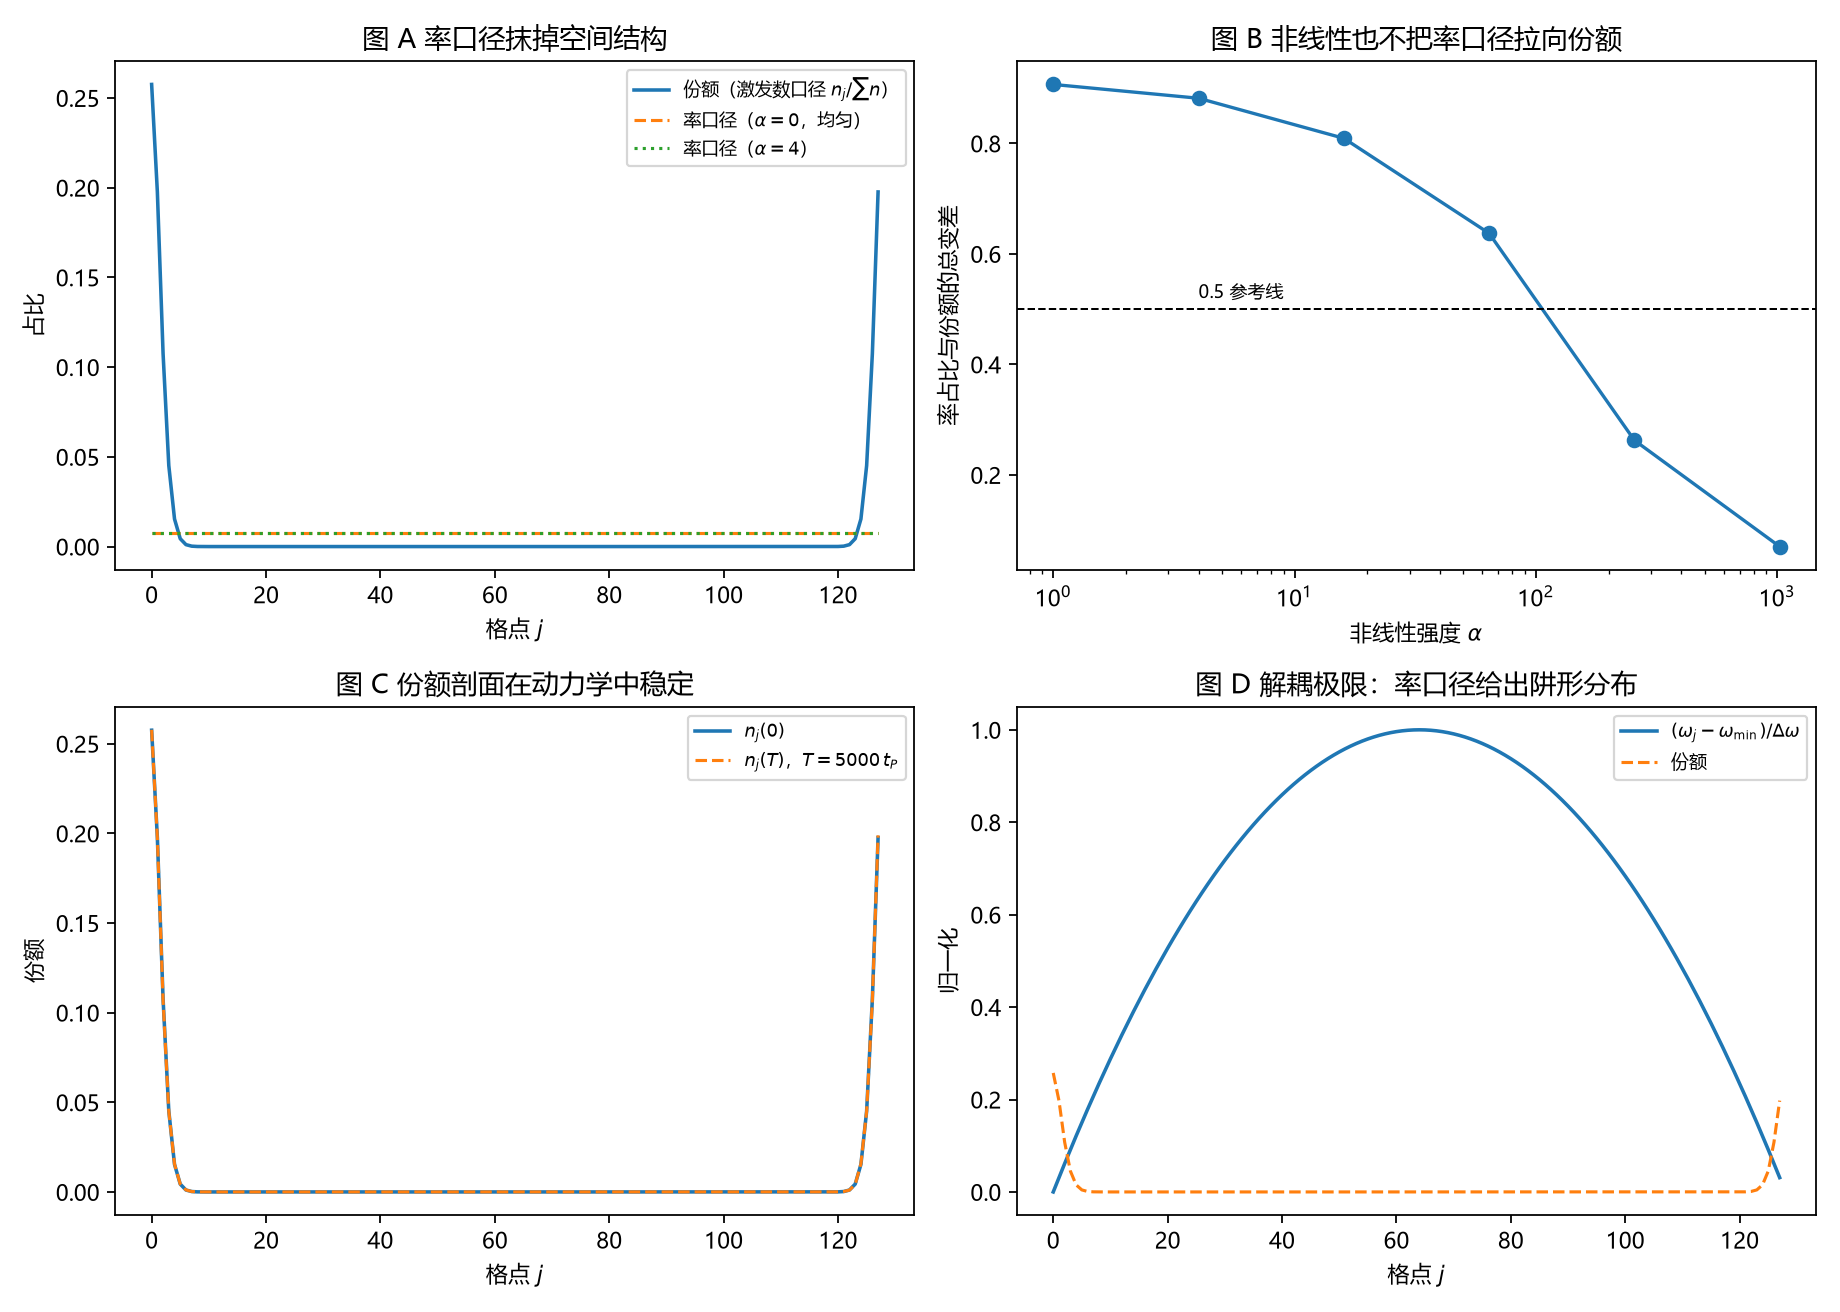
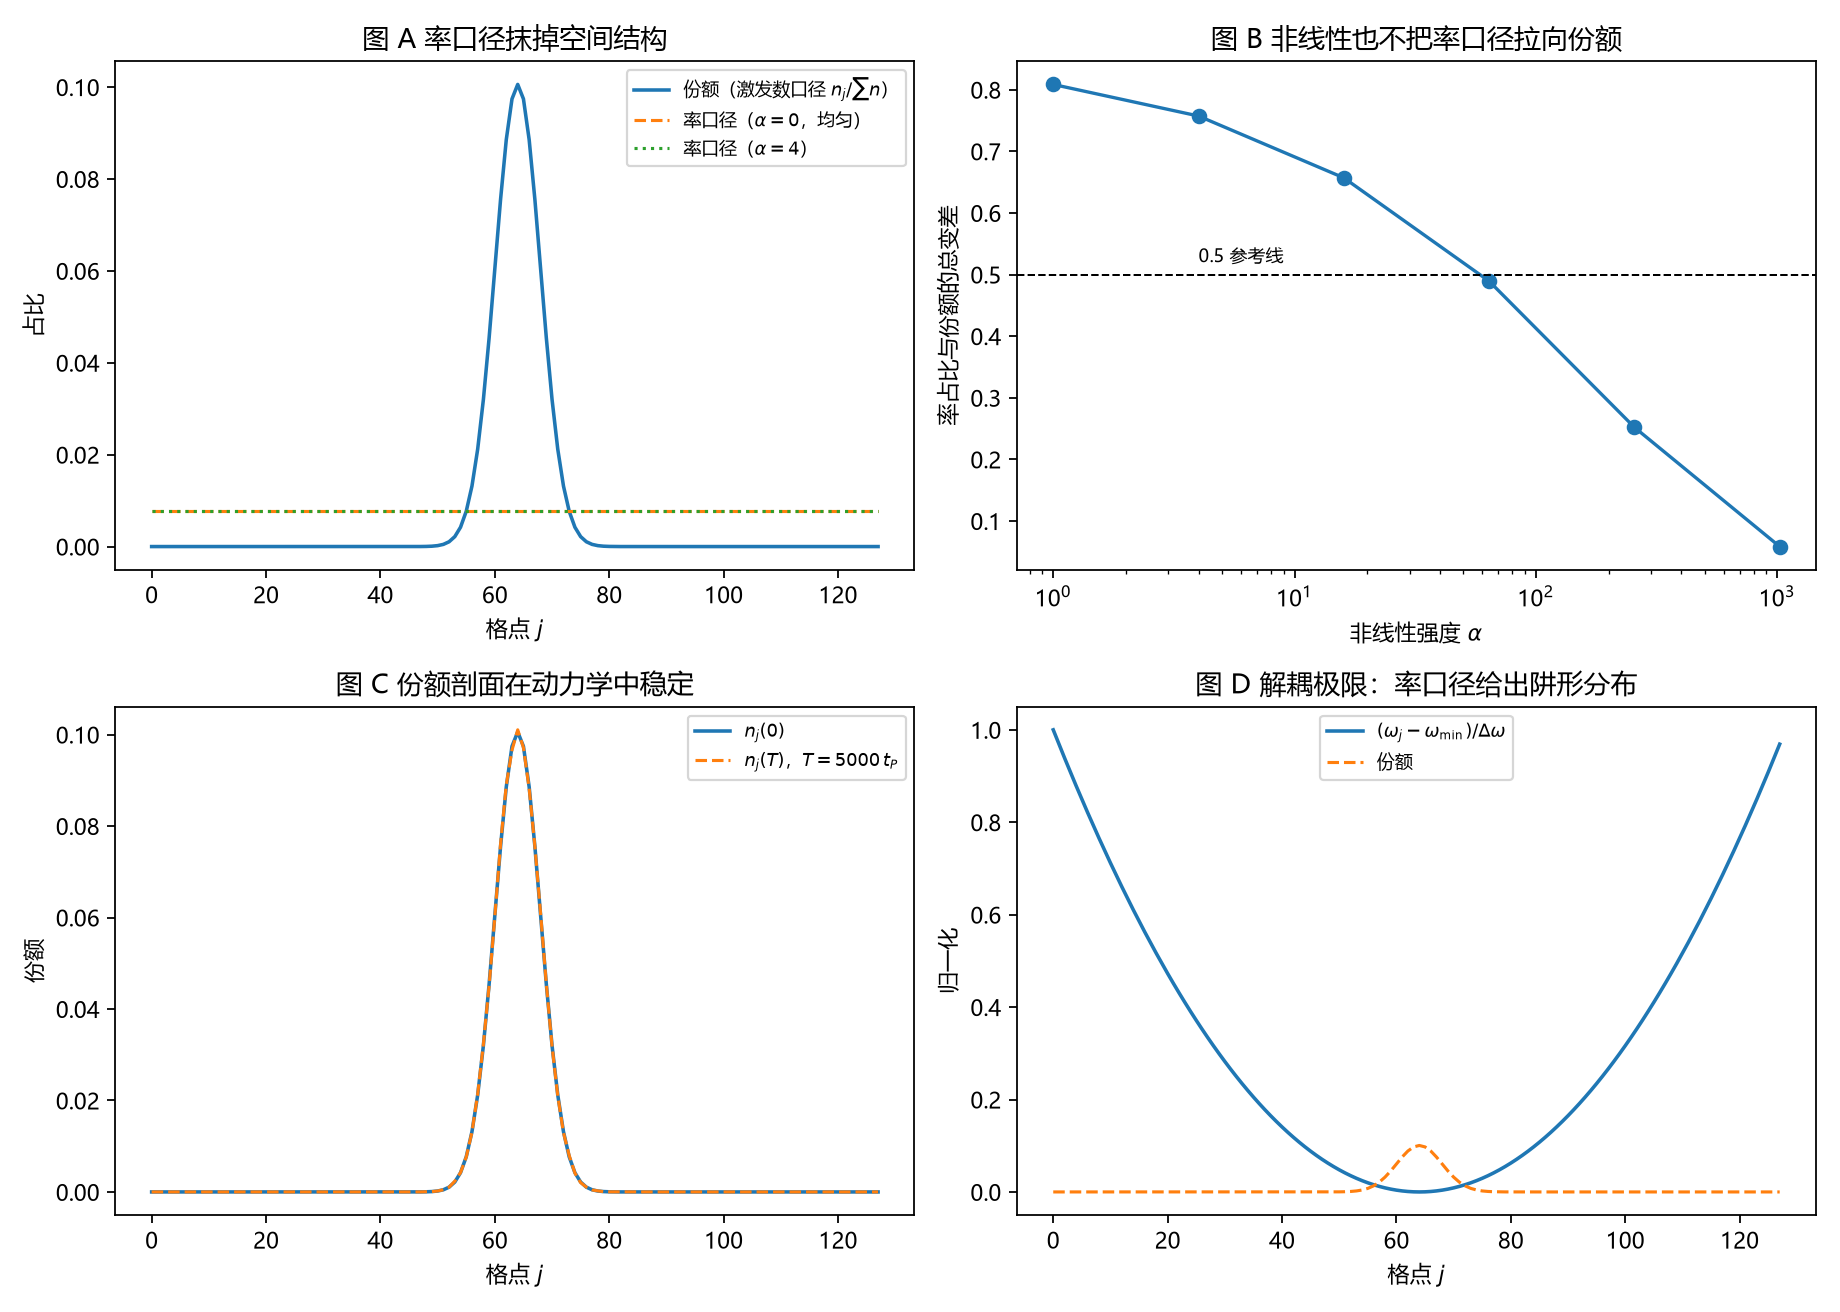
验证材料-载子钟与激发数轮更正：阱符号改为束缚、复跑 13/13、读数同步更新

diff --git a/验证脚本/minimal_verification_carrier_clock_vs_excitation.py b/验证脚本/minimal_verification_carrier_clock_vs_excitation.py
@@ -59,7 +59,7 @@ def trap_profile(K):
     j = np.arange(L, dtype=float)
     d = j - JC
     d = np.where(d > L / 2, d - L, d)
-    return OMEGA0 - 0.5 * K * d ** 2
+    return OMEGA0 + 0.5 * K * d ** 2
 
 
 def lap(A):

diff --git a/验证脚本/README.md b/验证脚本/README.md
@@ -1660,13 +1660,35 @@
 
 | 判据 | 结果 |
 |---|---|
-| J1 定常模式的率口径 | 通过（率均匀，散布 $8.8\times10^{-11}$；与份额总变差 $0.9182$；解耦极限给出阱形分布 $0.9894$） |
-| J2 非线性下的率口径 | 通过（$\alpha$ 至 $256$ 仍均匀；与均匀分布口径之差 $4.1\times10^{-12}$） |
+| J1 定常模式的率口径 | 通过（率均匀，散布 $9.6\times10^{-11}$；与份额总变差 $0.8354$；解耦极限给出阱形分布 $0.8721$） |
+| J2 非线性下的率口径 | 通过（$\alpha$ 至 $256$ 仍均匀；与均匀分布口径之差 $6.98\times10^{-12}$） |
 | J3 激发数口径 | 通过（恒等式，偏差 $0$） |
-| J4 剖面稳定性 | 通过（$5000\,t_P$ 漂移 $0.0021$） |
-| J5 失败的结构性 | 通过（模式更窄时总变差 $0.9435$） |
-| J6 范数守恒 | 通过（$1.47\times10^{-11}$，累积舍入） |
+| J4 剖面稳定性 | 通过（$5000\,t_P$ 漂移 $0.0029$） |
+| J5 失败的结构性 | 通过（模式更窄时总变差 $0.8787$） |
+| J6 范数守恒 | 通过（$2.90\times10^{-11}$，累积舍入） |
 
-**结论（预备读数）**：定常模式的站点相位推进率处处等于模式频率（恒等式），故"本体每站一次"的计数占比是均匀分布，与份额相差 $O(1)$；解耦极限退化为阱形分布。非线性不改变这一点，率占比与份额的总变差精确等于"均匀分布与份额"的总变差。激发数口径是唯一给出份额的口径，且份额剖面在动力学中稳定。口径警示：强排斥非线性压平模式后（$\alpha = 1024$ 时该总变差降至 $0.0703$），均匀抽样与 Born 份额近乎不可区分，率口径检验会假通过。
+**结论（预备读数）**：定常模式的站点相位推进率处处等于模式频率（恒等式），故"本体每站一次"的计数占比是均匀分布，与份额相差 $O(1)$；解耦极限退化为阱形分布。非线性不改变这一点，率占比与份额的总变差精确等于"均匀分布与份额"的总变差。激发数口径是唯一给出份额的口径，且份额剖面在动力学中稳定。口径警示：强排斥非线性压平模式后（$\alpha = 1024$ 时该总变差降至 $0.0585$），均匀抽样与 Born 份额近乎不可区分，率口径检验会假通过。
 
-**过程记录**：判据订正四处（符号约定、原"非线性拉向份额"预期被推翻、虚时求解器改用分裂步未收敛后退回梯度流、范数守恒阈值由 $10^{-12}$ 改为 $10^{-9}$ 以容纳累积舍入）。脚本约 11 秒。
+**过程记录**：判据订正四处（符号约定、原"非线性拉向份额"预期被推翻、虚时求解器改用分裂步未收敛后退回梯度流、范数守恒阈值由 $10^{-12}$ 改为 $10^{-9}$ 以容纳累积舍入）。**2026-09-18 阱符号更正并复跑**：原阱曲率取负号，在环上属反束缚（模式落在环对侧边缘，$\sigma \approx 61\,l_P$），改为正号后基态是束缚模式（$\sigma_{gs} = 7.07\,l_P$），复跑 13/13，读数已更新，结论不变。脚本约 15 秒。
+
+---
+
+### 97. `minimal_verification_carrier_identity_breathing.py`（载子身份与呼吸模式轮：计数跟时间平均份额走，2026-09-18）
+
+**对应注记**：`验证脚本/注记-载子身份与呼吸模式的最小验证：计数跟时间平均份额走.md`
+
+**验证内容**：第四轮机制面执行。在束缚模式上做呼吸振荡（宽度扰动），检验"每个激发每摆程被读一次"的抽样是跟窗口内时间平均份额 $\bar p$ 走，还是跟初始份额 $p_0$ 走；并核对统计误差标度与率口径在呼吸模式下是否仍失败。
+
+| 判据 | 结果 |
+|---|---|
+| J1 呼吸振荡 | 通过（相对振幅 $1.382$；线性呼吸周期 $314.8\,t_P$，两种扰动幅度一致，窗口内 32 个周期） |
+| J2 两假设可区分 | 通过（$\mathrm{TV}(\bar p, p_0) = 0.5194$） |
+| J3 计数跟随 | 通过（$\mathrm{TV}(\text{经验}, \bar p) = 0.0060$ 对 $\mathrm{TV}(\text{经验}, p_0) = 0.5189$，样本 $5\times10^5$） |
+| J4 统计误差标度 | 通过（对样本数 $K$ 的双对数斜率 $-0.410$，$K$ 至 $3.2\times10^5$） |
+| J5 率口径仍失败 | 通过（均匀分布与 $\bar p$ 的总变差 $0.3003$） |
+| J6 范数守恒 | 通过（$1.53\times10^{-11}$） |
+| J7 非线性对照 | 通过（$\alpha = 4$：呼吸幅度 $1.012$，总变差 $0.00285$） |
+
+**结论（预备读数）**：计数跟窗口内时间平均份额走（偏差 $0.0060$），与初始份额相距 $0.5189$，故"载子 = 局域振荡子的激发量子、每个量子每摆程被读一次"成立，抽样与瞬时激发数挂钩。统计误差按 $K^{-1/2}$ 收敛。率口径在呼吸模式下仍给出均匀分布并失败。实测线性呼吸频率 $0.01996 \approx \sqrt{2\kappa K}$，朴素公式 $2\sqrt{2\kappa K}$ 高出一倍，解析推导登记为后续项。
+
+**过程记录**：判据订正四处（阱符号反束缚、宽度未减质心、统计参考须取同窗口时间平均、呼吸周期改用稳健判据），并据此更正第三轮阱符号后复跑（13/13）。脚本约 11 秒。
